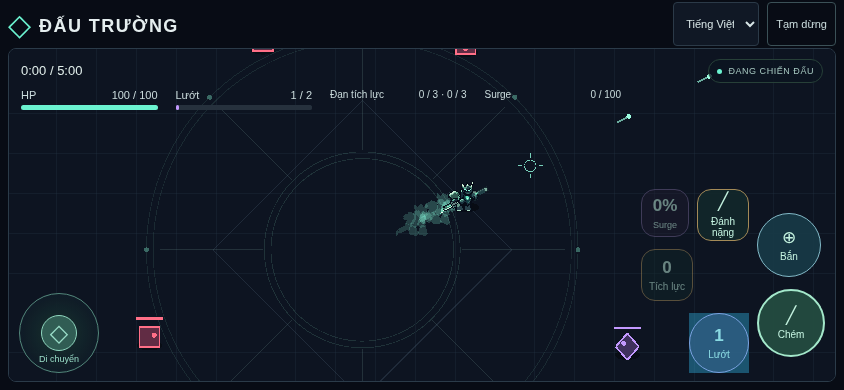
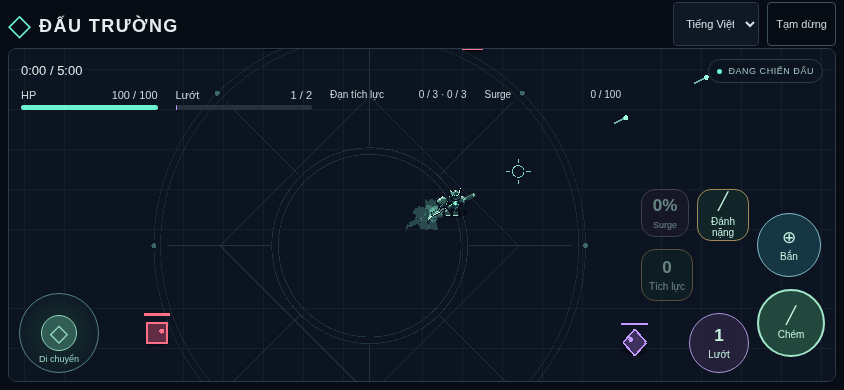
Bỏ tap highlight mặc định trên controls mobile

diff --git a/src/style.css b/src/style.css
@@ -93,7 +93,7 @@ footer { display: none; }
 /* Touch controls occupy their own bottom area in portrait. Pointer capture owns each finger. */
 .touch-enabled .arena-shell { --controls-height: 204px; }
 .touch-controls { position: absolute; z-index: 3; bottom: 10px; left: 10px; right: 10px; height: 184px; display: flex; align-items: flex-end; justify-content: space-between; gap: 10px; user-select: none; -webkit-user-select: none; -webkit-touch-callout: none; pointer-events: none; }
-.touch-controls button { pointer-events: auto; touch-action: none; }
+.touch-controls button { pointer-events: auto; touch-action: none; -webkit-tap-highlight-color: transparent; }
 .touch-stick { position: relative; width: 80px; height: 80px; flex-shrink: 0; border: 1px solid #53877b; border-radius: 50%; color: #9addc8; background: radial-gradient(circle, #18312f 0%, #101e28e8 65%); }
 .stick-knob { position: absolute; left: calc(50% - 18px); top: calc(50% - 18px); width: 36px; height: 36px; display: grid; place-items: center; background: #315d54; border: 1px solid #90d7bf; border-radius: 50%; font-size: 24px; transform: translate(var(--stick-x, 0px), var(--stick-y, 0px)); }
 .stick-label { position: absolute; bottom: 8px; left: 0; width: 100%; font-size: 9px; pointer-events: none; }

diff --git a/HANDOFF.md b/HANDOFF.md
@@ -10,7 +10,7 @@ Thiết lập nền tảng agent/handoff, chuẩn hóa game specification và tr
 Đưa prototype từ functional demo thành một action roguelike vertical slice có combat feel thỏa mãn, Fractured Geometry art và các cơ chế tương tác thực sự có chiều sâu.
 
 ## ACTIVE TASK
-Q2 — melee/ranged/dash feel và impact, đồng thời bố trí lại cụm nút phải mobile theo yêu cầu mới. User đã playtest bản Q1/mobile trước và nói “khá ổn”, nhưng muốn chỉnh controls; chưa coi đó là duyệt riêng toàn bộ visual Q1. Implementation Q2, typecheck/build, focused tests và production subpath smoke đã PASS; chuẩn bị push/deploy. **AWAITING PLAYTEST APPROVAL** cho Q2/bố cục mới. Q3–Q5 chưa giao.
+Q2 — melee/ranged/dash feel và impact, đồng thời bố trí lại cụm nút phải mobile theo yêu cầu mới. User đã playtest bản Q1/mobile trước và nói “khá ổn”, nhưng muốn chỉnh controls; chưa coi đó là duyệt riêng toàn bộ visual Q1. Q2 commit `446b972` đã deploy thành công qua run `40046296553`. Sau review ảnh production, bỏ tap highlight mặc định của browser trên controls (CSS-only); build/typecheck và production smoke lại PASS, chuẩn bị deploy polish này. **AWAITING PLAYTEST APPROVAL** cho Q2/bố cục mới. Q3–Q5 chưa giao.
 
 ## ACCEPTANCE CRITERIA — Q2 + MOBILE
 - Cụm nút phải ưu tiên Chém/Bắn/Lướt theo tầm với ngón cái; đòn phụ phân cấp, Surge tránh bấm nhầm; targets ≥44px, không chồng/cắt ở 320px, dọc/ngang/tablet.
@@ -81,11 +81,11 @@ npm run dev (5173); npm run build (typecheck + dist); npm run preview (4173); np
 - CDP touch PASS: move + aim/shoot, nhả độc lập/cancel; tap cuối recovery nối đúng một lần, tap sớm hết hạn; Light→Heavy, dash cancel, shoot cuối dash, Charged sau Heavy; dash/Surge qua hitstop và cancel dash. Phase pause/draft/defeat/victory/rotation clear input; vi/en PASS. Fixture tắt waves/cấp resource cho các edge cases này.
 - Natural-wave smoke ~20s bằng CDP touch: 90HP, 2 kills, 103 shots, không runtime error; scripted movement/aim, không cấp stats/resources hoặc bất tử. Không coi là human feel/full-run acceptance.
 - Desktop smoke PASS mouse tap, WASD + RMB, Shift/Space, Esc pause/resume không dư hành động.
-- Build/typecheck bản pose cuối PASS; production `/a-new-game/` PASS 390×844, 844×390 và desktop 1440×1000: SVG HTTP200 đúng base, move/shoot/dash/pause/resume, không runtime/request/HTTP errors. Bundle warning Phaser >500kB là hiện trạng (~1.27MB JS/gzip352KB), không mở scope bundling.
+- Build/typecheck bản pose cuối và CSS tap-highlight cuối PASS; production `/a-new-game/` PASS 390×844, 844×390 và desktop 1440×1000: SVG HTTP200 đúng base, move/shoot/dash/pause/resume, không runtime/request/HTTP errors. Bundle warning Phaser >500kB là hiện trạng (~1.27MB JS/gzip352KB), không mở scope bundling.
 - Không xác nhận Safari/iOS, cảm nhận âm thanh/performance/tầm với trên máy thật hay full-run. User chỉ phản hồi bản trước Q2 “khá ổn”.
 
 ## NEXT ACTION
-Commit/push bản Q2 đã kiểm tra lên main không force, theo dõi Actions deploy tới success; cập nhật handoff rồi dừng chờ playtest Q2.
+Commit/push polish touch đã kiểm tra lên main không force, theo dõi Actions deploy tới success; cập nhật handoff rồi dừng chờ playtest Q2.
 
 ## BLOCKERS
 Không blocker đã biết. URL Pages trực tiếp ngoài allowlist; xác minh deployment qua Actions và production local đúng subpath. Q2/bố cục mới vẫn chờ user playtest, Q1 vẫn chờ xác nhận visual; Q3–Q5 chưa giao.
